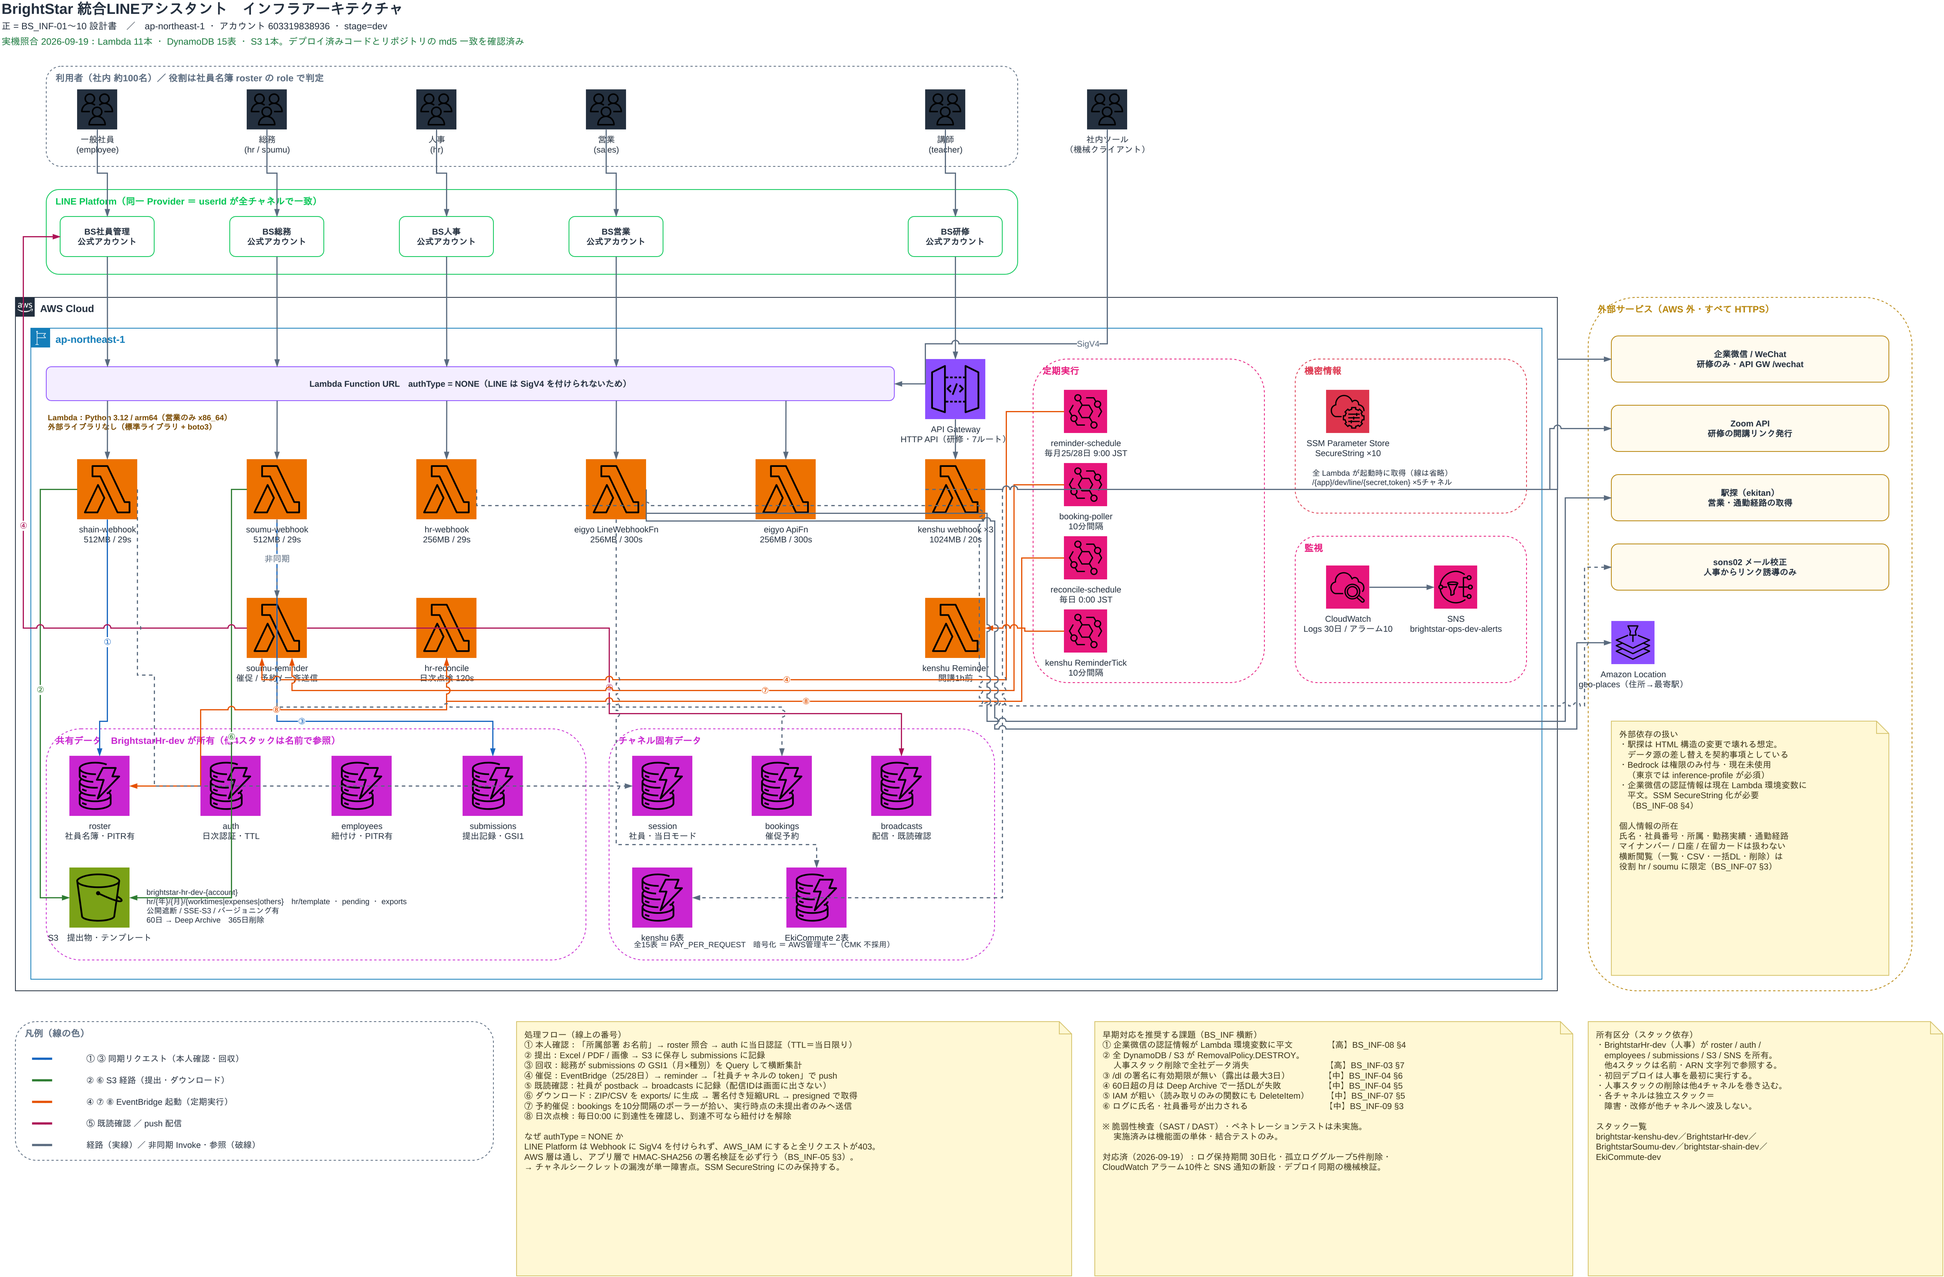
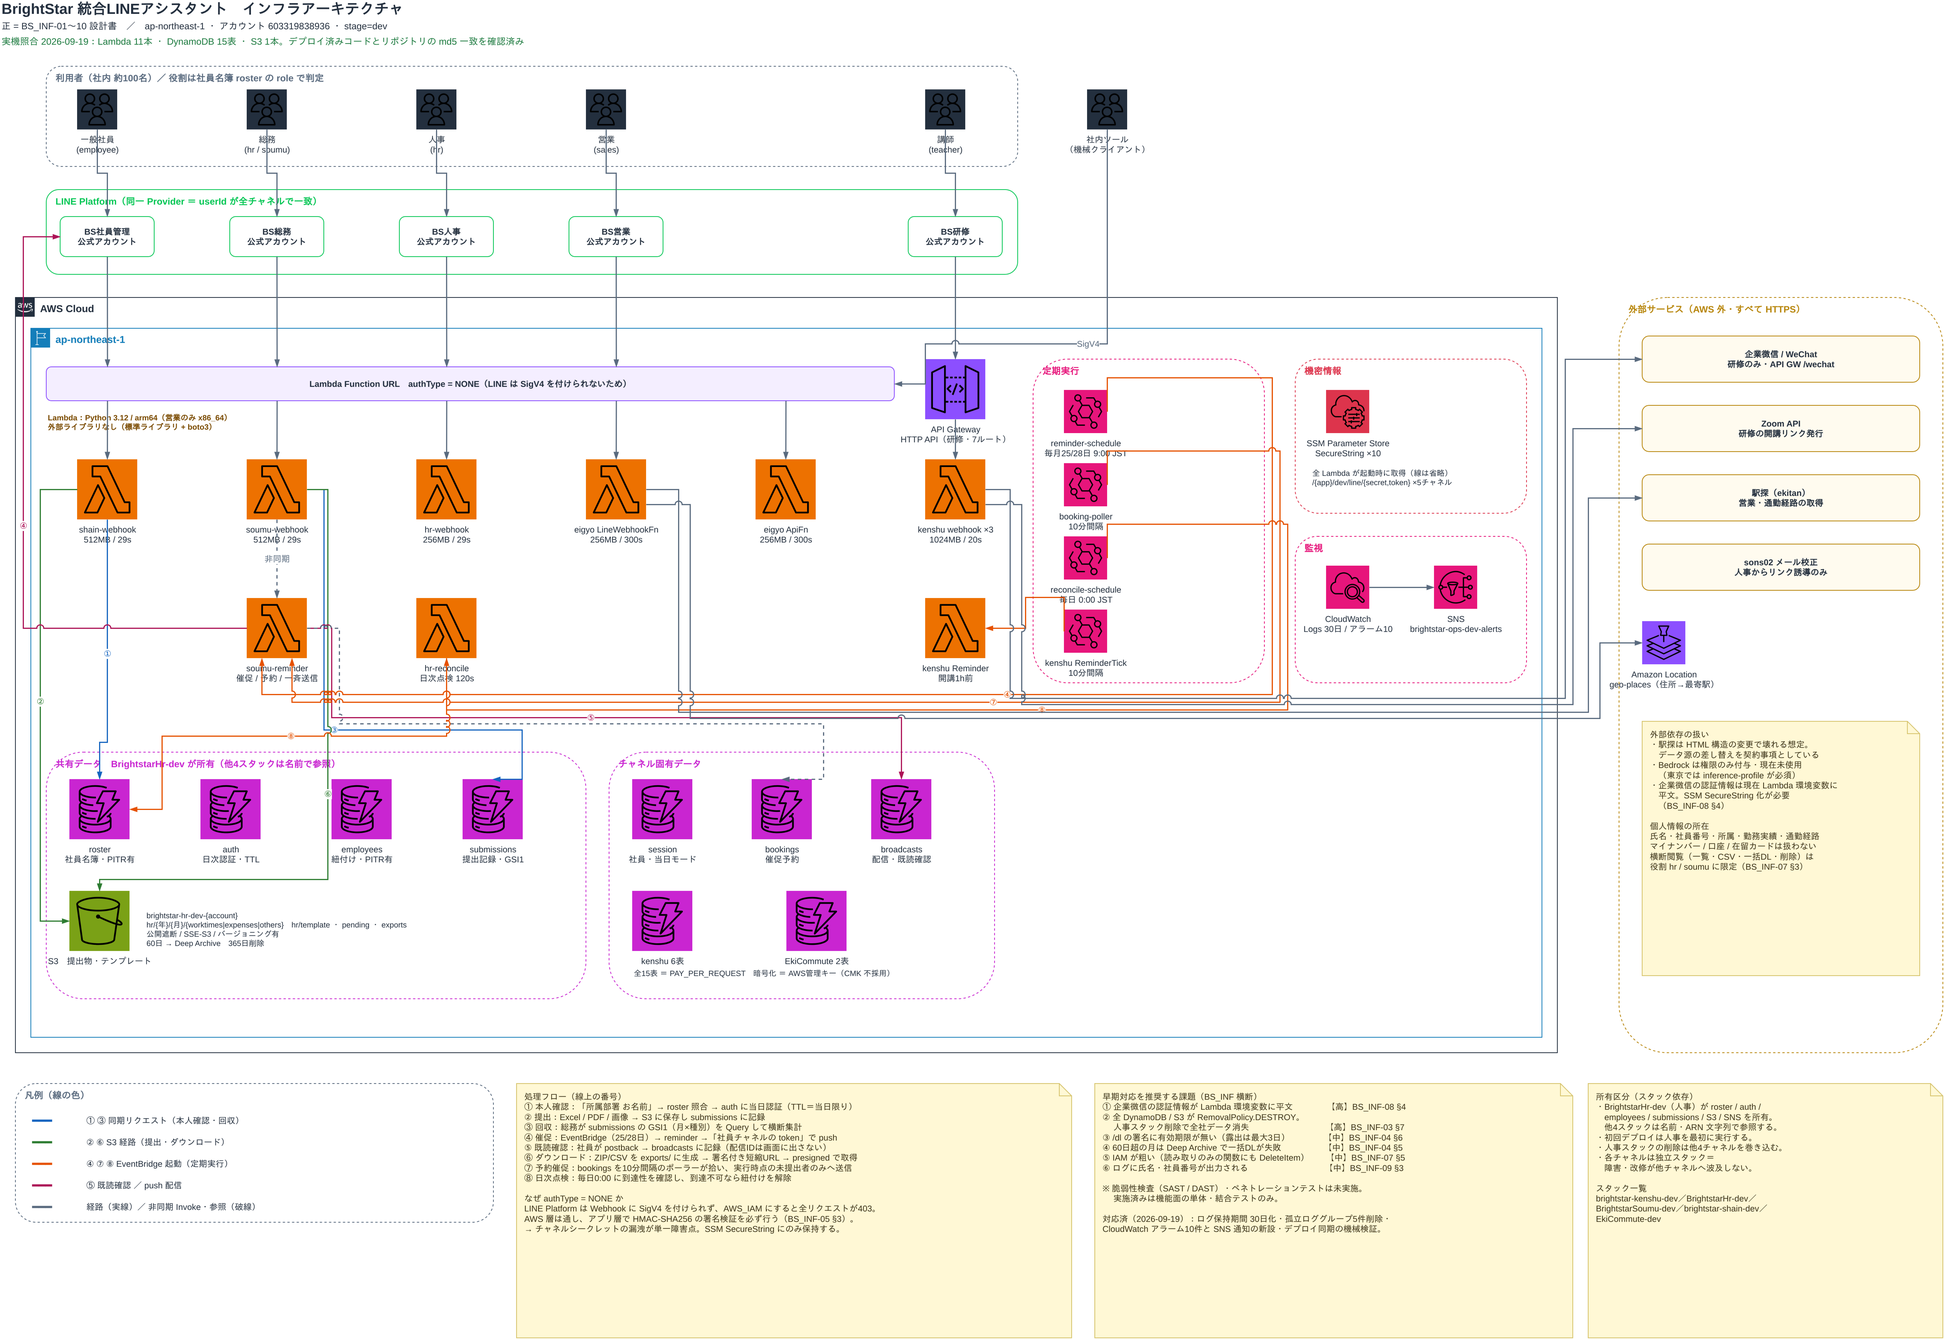
fix: masterHrPrefix（テスト用バックドア）を無効化／アーキテクチャ図の配線をアイコン非貫通に修正
バックドア無効化
- soumu/cdk/cdk.json に masterHrPrefix="sonsik" がハードコードされており、
  公開リポジトリに値が入ったまま常時有効だった。設定を削除し人事・総務を再デプロイ。
- 4関数すべて MASTER_HR_PREFIX='' を実機確認。既定＝無効。
  有効化が必要な場合のみデプロイ時に -c で渡す（値はリポジトリに置かない）。
- BS_INF-02 / 10 / 11 の記述を更新。

アーキテクチャ図
- 線が走れる帯（アイコン78px＋ラベル37pxを避けた隙間）を先に定義し、縦横の車線を割当。
  これによりアイコンを貫通する線をゼロにした。
- EventBridge は左がラベル帯なので右へ出し、枠外 1690〜1710 を降りる。
- 外部サービス枠を右へ寄せ、AWS 枠との間に配線用の通路を確保。
- SSM への線は全 Lambda が対象のため引かず注記に置き換え。

diff --git a/soumu/cdk/lib/brightstar-soumu-stack.ts b/soumu/cdk/lib/brightstar-soumu-stack.ts
@@ -97,7 +97,9 @@ export class BrightstarSoumuStack extends cdk.Stack {
       HR_USERIDS: hrUserIds,
       LINE_SECRET_PARAM: lineSecretParam,
       LINE_TOKEN_PARAM: lineTokenParam,
-      // テスト用バックドア：「sonsik+YYYYMMDD」で1時間だけ総務権限（-c masterHrPrefix=sonsik）
+      // テスト用バックドア：「<prefix>+YYYYMMDD」の送信で1時間だけ総務権限を付与する。
+      // 空文字なら無効。**本番相当の運用では値を設定しない**（既定＝無効）。
+      // 使う場合のみデプロイ時に -c masterHrPrefix=<値> を渡す（値はリポジトリに置かない）。
       MASTER_HR_PREFIX: this.node.tryGetContext("masterHrPrefix") || "",
       BEDROCK_ENABLED: "false",
       TZ: "Asia/Tokyo",

diff --git a/tools/arch_diagram.py b/tools/arch_diagram.py
@@ -183,8 +183,8 @@ for i, (nm, nid) in enumerate(ACC):
         box(COL[i] - 22, 305, 122, 52, nm + "\n公式アカウント", "#06C755", nid=nid, font=11)
 
 # ── AWS Cloud ──────────────────────────────────────────
-group(60, 410, 2000, 900, "AWS Cloud", INK, gr_icon="group_aws_cloud_alt", nid="g_aws")
-group(80, 450, 1960, 845, "ap-northeast-1", "#147EBA", gr_icon="group_region", nid="g_region")
+group(60, 410, 2000, 980, "AWS Cloud", INK, gr_icon="group_aws_cloud_alt", nid="g_aws")
+group(80, 450, 1960, 920, "ap-northeast-1", "#147EBA", gr_icon="group_region", nid="g_region")
 
 # 入口層
 box(100, 500, 1100, 44, "Lambda Function URL　authType = NONE（LINE は SigV4 を付けられないため）",
@@ -207,28 +207,28 @@ text(100, 556, 400, 32,
      10, 1, "#7A4A00")
 
 # データ層
-group(100, 970, 700, 300, "共有データ　BrightstarHr-dev が所有（他4スタックは名前で参照）",
+group(100, 1000, 700, 320, "共有データ　BrightstarHr-dev が所有（他4スタックは名前で参照）",
       C_DB, dashed=1, nid="g_shared", font=12)
 for i, (nm, nid) in enumerate([("roster\n社員名簿・PITR有", "t_roster"),
                                ("auth\n日次認証・TTL", "t_auth"),
                                ("employees\n紐付け・PITR有", "t_emp"),
                                ("submissions\n提出記録・GSI1", "t_sub")]):
-    icon(130 + i * 170, 1005, nm, "dynamodb", C_DB, nid=nid)
-icon(130, 1150, "S3　提出物・テンプレート", "s3", C_STORAGE, nid="s3")
-text(228, 1152, 540, 96,
+    icon(130 + i * 170, 1035, nm, "dynamodb", C_DB, nid=nid)
+icon(130, 1180, "S3　提出物・テンプレート", "s3", C_STORAGE, nid="s3")
+text(228, 1182, 540, 96,
      "brightstar-hr-dev-{account}\n"
      "hr/{年}/{月}/{worktimes|expenses|others}　hr/template ・ pending ・ exports\n"
      "公開遮断 / SSE-S3 / バージョニング有\n"
      "60日 → Deep Archive　365日削除", 10)
 
-group(830, 970, 500, 300, "チャネル固有データ", C_DB, dashed=1, nid="g_own", font=12)
+group(830, 1000, 500, 320, "チャネル固有データ", C_DB, dashed=1, nid="g_own", font=12)
 for i, (nm, nid) in enumerate([("session\n社員・当日モード", "t_sess"),
                                ("bookings\n催促予約", "t_book"),
                                ("broadcasts\n配信・既読確認", "t_bc")]):
-    icon(860 + i * 155, 1005, nm, "dynamodb", C_DB, nid=nid)
-icon(860, 1150, "kenshu 6表", "dynamodb", C_DB, nid="t_kenshu")
-icon(1060, 1150, "EkiCommute 2表", "dynamodb", C_DB, nid="t_eki")
-text(860, 1235, 460, 30,
+    icon(860 + i * 155, 1035, nm, "dynamodb", C_DB, nid=nid)
+icon(860, 1180, "kenshu 6表", "dynamodb", C_DB, nid="t_kenshu")
+icon(1060, 1180, "EkiCommute 2表", "dynamodb", C_DB, nid="t_eki")
+text(860, 1272, 460, 30,
      "全15表 ＝ PAY_PER_REQUEST　暗号化 ＝ AWS管理キー（CMK 不採用）", 10)
 
 # 右カラム：定期実行 / 機密 / 監視
@@ -251,18 +251,18 @@ icon(1760, 758, "CloudWatch\nLogs 30日 / アラーム10", "cloudwatch_2", C_MGM
 icon(1900, 758, "SNS\nbrightstar-ops-dev-alerts", "sns", C_APPINT, nid="sns", size=56)
 
 # ── 外部サービス（AWS 外） ────────────────────────────
-group(2100, 410, 420, 900, "外部サービス（AWS 外・すべて HTTPS）", "#B8860B", dashed=1,
+group(2140, 410, 420, 980, "外部サービス（AWS 外・すべて HTTPS）", "#B8860B", dashed=1,
       nid="g_ext", font=12)
 EXT = [("企業微信 / WeChat\n研修のみ・API GW /wechat", "x_wecom"),
        ("Zoom API\n研修の開講リンク発行", "x_zoom"),
        ("駅探（ekitan）\n営業・通勤経路の取得", "x_eki"),
        ("sons02 メール校正\n人事からリンク誘導のみ", "x_mail")]
 for i, (nm, nid) in enumerate(EXT):
-    box(2130, 460 + i * 90, 360, 60, nm, "#B8860B", nid=nid, fill="#FFFBEF", font=11)
-icon(2130, 830, "Amazon Location\ngeo-places（住所→最寄駅）", "location_service", C_NET,
+    box(2170, 460 + i * 90, 360, 60, nm, "#B8860B", nid=nid, fill="#FFFBEF", font=11)
+icon(2170, 830, "Amazon Location\ngeo-places（住所→最寄駅）", "location_service", C_NET,
      nid="x_loc", size=56)
 
-note(2130, 960, 360, 330,
+note(2170, 960, 360, 330,
      "外部依存の扱い\n"
      "・駅探は HTML 構造の変更で壊れる想定。\n"
      "　データ源の差し替えを契約事項としている\n"
@@ -306,74 +306,84 @@ edge("u_tool", "ep_furl", "SigV4", GRAY,
      exit_=("0.5", "1"), entry=("1", "0.5"),
      points=[(1476, 470), (1240, 470), (1240, 522)])
 
+# ── 配線の車線割り当て ───────────────────────────────────────────
+#   アイコン本体を一切貫通させないため、線が通れる帯を先に決めて割り当てる。
+#   アイコンは 78px 角、その下 37px がラベル帯。よって使える帯は
+#     Lambda 1段目の下  y=740〜795（EventBridge アイコンの隙間 732〜771 と重なる部分を使う）
+#     Lambda 2段目の下  y=920〜995（データ層の上端 1000 まで）
+#     データ表の下      y=1155〜1175
+#   縦の通路は列と列の隙間だけを使う：
+#     70 / 92（AWS 枠の左外）、250 / 465（データ表の隙間 208〜300・378〜470）
+#     460 / 470 / 480（Lambda 列 438〜580 の隙間）
+#     920 / 935（営業列の右 878〜1020）、1350 / 1365（研修ラベルの右〜定期実行枠の左）
+#     1390 / 1400 / 1410（定期実行枠の内側・アイコン 1420 の左）
+#     2070 / 2080 / 2100 / 2115（AWS 枠 2060 と外部枠 2140 の間）
+
 # ① 本人確認：shain → roster
 edge("l_shain", "t_roster", "①", BLUE, exit_=("0.5", "1"), entry=("0.5", "0"),
-     points=[(CX[0], 960), (169, 960)])
-# ② 提出：shain → S3（左の外側を通してアイコンを避ける）
+     points=[(CX[0], 987), (169, 987)])
+# ② 提出：shain → S3（AWS 枠の左外を降りる）
 edge("l_shain", "s3", "②", GREEN, exit_=("0", "0.5"), entry=("0", "0.5"),
-     points=[(92, 659), (92, 1189)])
-# ③ 回収：soumu → submissions
-edge("l_soumu", "t_sub", "③", BLUE, exit_=("0.5", "1"), entry=("0.5", "0"),
-     points=[(CX[1], 960), (679, 960)])
-# ⑥ DL：soumu → S3
-edge("l_soumu", "s3", "⑥", GREEN, exit_=("0", "0.5"), entry=("1", "0.5"),
-     points=[(340, 659), (340, 1189)])
+     points=[(92, 659), (92, 1219)])
+# ③ 回収：soumu → submissions（真下は soumu-reminder なので右へ逃がす）
+edge("l_soumu", "t_sub", "③", BLUE, exit_=("1", "0.5"), entry=("0.5", "0"),
+     points=[(460, 659), (460, 971), (717, 971)])
+# ⑥ DL：soumu → S3（表の隙間 x=465 を降り、ラベル帯の下 y=1165 を通る）
+edge("l_soumu", "s3", "⑥", GREEN, exit_=("1", "0.5"), entry=("0.5", "0"),
+     points=[(465, 659), (465, 1165), (169, 1165)])
 # ⑤ 既読確認：reminder → broadcasts
 edge("l_rem", "t_bc", "⑤", PINK, exit_=("1", "0.5"), entry=("0.5", "0"),
-     points=[(830, 839), (830, 950), (1209, 950)])
-# ④ push は社員チャネルの token で送る（左端を大きく迂回してアイコンを避ける）
+     points=[(470, 839), (470, 955), (1209, 955)])
+# 予約の読み書き
+edge("l_rem", "t_book", "", GRAY, dashed=1, exit_=("1", "0.5"), entry=("0.5", "0"),
+     points=[(480, 839), (480, 963), (1108, 963)])
+# ④ push は社員チャネルの token で送る（AWS 枠の外を大きく回す）
 edge("l_rem", "acc_shain", "④", PINK, exit_=("0", "0.5"), entry=("0", "0.5"),
      points=[(70, 839), (70, 331)])
-# ④⑦⑧ EventBridge → Lambda
-#   縦道 x=1345/1355/1365、横車線 y=906/920/934（Lambda 下端878 とデータ層上端970 の間）
-edge("e_rem", "l_rem", "④", ORANGE, exit_=("0", "0.5"), entry=("0.25", "1"),
-     points=[(1345, 558), (1345, 906), (380, 906)])
-edge("e_poll", "l_rem", "⑦", ORANGE, exit_=("0", "0.5"), entry=("0.75", "1"),
-     points=[(1355, 653), (1355, 920), (418, 920)])
-edge("e_rec", "l_rec", "⑧", ORANGE, exit_=("0", "0.5"), entry=("0.5", "1"),
-     points=[(1365, 748), (1365, 934), (619, 934)])
-edge("e_krem", "l_krem", "", ORANGE, exit_=("0", "0.5"), entry=("1", "0.5"))
-# 非同期 Invoke
-edge("l_soumu", "l_rem", "非同期", GRAY, dashed=1, exit_=("0.5", "1"), entry=("0.5", "0"))
-# ⑧ 紐付け解除
+# ⑧ 到達不可なら紐付け解除
 edge("l_rec", "t_roster", "⑧", ORANGE, exit_=("0.5", "1"), entry=("1", "0.5"),
-     points=[(CX[2], 945), (300, 945), (300, 1044)])
-# 参照（破線）
-# SSM は全 Lambda が起動時に読むため、線は引かず 機密情報 グループ内に注記する
-edge("l_shain", "t_sess", "", GRAY, dashed=1, exit_=("1", "0.5"), entry=("0", "0.5"),
-     points=[(240, 900), (240, 1044)])
-edge("l_rem", "t_book", "", GRAY, dashed=1, exit_=("0.5", "1"), entry=("0.5", "0"))
-edge("l_kenshu", "t_kenshu", "", GRAY, dashed=1, exit_=("0", "0.5"), entry=("1", "0.5"),
-     points=[(1340, 1189)])
-edge("l_eigyo", "t_eki", "", GRAY, dashed=1, exit_=("0.5", "1"), entry=("0.5", "0"),
-     points=[(CX[3], 1120), (1099, 1120)])
+     points=[(619, 979), (250, 979), (250, 1074)])
+# ④⑦⑧ EventBridge → Lambda（定期実行枠の内側を降り、2段目の下の車線で戻る）
+# アイコン左はラベル帯なので、右へ出して枠の外（1690〜1710）を降りる
+edge("e_rem", "l_rem", "④", ORANGE, exit_=("1", "0.5"), entry=("0.25", "1"),
+     points=[(1690, 514), (1690, 925), (380, 925)])
+edge("e_poll", "l_rem", "⑦", ORANGE, exit_=("1", "0.5"), entry=("0.75", "1"),
+     points=[(1700, 609), (1700, 935), (418, 935)])
+edge("e_rec", "l_rec", "⑧", ORANGE, exit_=("1", "0.5"), entry=("0.5", "1"),
+     points=[(1710, 704), (1710, 945), (619, 945)])
+edge("e_krem", "l_krem", "", ORANGE, exit_=("0", "0.5"), entry=("1", "0.5"),
+     points=[(1370, 799), (1370, 839)])
+# 非同期 Invoke（soumu-webhook の真下が soumu-reminder）
+edge("l_soumu", "l_rem", "非同期", GRAY, dashed=1, exit_=("0.5", "1"), entry=("0.5", "0"))
+# 監視
 edge("cw", "sns", "", GRAY, exit_=("1", "0.5"), entry=("0", "0.5"))
-# 外部サービス
+# 外部サービス（2段目の下の車線 → AWS 枠と外部枠の間の通路を上がる）
 edge("l_kenshu", "x_wecom", "", GRAY, exit_=("1", "0.5"), entry=("0", "0.5"),
-     points=[(2060, 659), (2060, 490)])
-edge("l_kenshu", "x_zoom", "", GRAY, exit_=("1", "0.5"), entry=("0", "0.5"),
-     points=[(2050, 659), (2050, 580)])
+     points=[(1350, 659), (1350, 930), (2070, 930), (2070, 490)])
+edge("l_kenshu", "x_zoom", "", GRAY, exit_=("1", "0.75"), entry=("0", "0.5"),
+     points=[(1365, 678), (1365, 938), (2080, 938), (2080, 580)])
 edge("l_eigyo", "x_eki", "", GRAY, exit_=("1", "0.5"), entry=("0", "0.5"),
-     points=[(1320, 690), (1320, 960), (2070, 960), (2070, 670)])
-edge("l_eigyo", "x_loc", "", GRAY, exit_=("1", "0.5"), entry=("0", "0.5"),
-     points=[(1330, 700), (1330, 970), (2085, 970), (2085, 858)])
-edge("l_hr", "x_mail", "", GRAY, dashed=1, exit_=("1", "0.5"), entry=("0", "0.5"),
-     points=[(1310, 680), (1310, 940), (2095, 940), (2095, 760)])
+     points=[(920, 659), (920, 948), (2100, 948), (2100, 670)])
+edge("l_eigyo", "x_loc", "", GRAY, exit_=("1", "0.75"), entry=("0", "0.5"),
+     points=[(935, 678), (935, 956), (2115, 956), (2115, 858)])
+# 以下は線を引かず、グループの所属で表す（線を増やすと可読性が落ちるため）：
+#   全 Lambda → SSM（起動時に取得）、shain → session、kenshu → kenshu6表、
+#   eigyo → EkiCommute2表、人事 → メール校正（リンク誘導のみで通信しない）
 
 # ══════════════════════════════════════════════════════════════════
 # 凡例・注記
 # ══════════════════════════════════════════════════════════════════
-group(60, 1350, 620, 180, "凡例（線の色）", "#5A6B7F", dashed=1, font=12)
+group(60, 1430, 620, 180, "凡例（線の色）", "#5A6B7F", dashed=1, font=12)
 LEG = [(BLUE, "① ③ 同期リクエスト（本人確認・回収）"),
        (GREEN, "② ⑥ S3 経路（提出・ダウンロード）"),
        (ORANGE, "④ ⑦ ⑧ EventBridge 起動（定期実行）"),
        (PINK, "⑤ 既読確認 ／ push 配信"),
        (GRAY, "経路（実線）／ 非同期 Invoke・参照（破線）")]
 for i, (c, s) in enumerate(LEG):
-    text(80, 1388 + i * 28, 60, 20, "━━━", 14, 1, c)
-    text(150, 1388 + i * 28, 520, 20, s, 11)
+    text(80, 1468 + i * 28, 60, 20, "━━━", 14, 1, c)
+    text(150, 1468 + i * 28, 520, 20, s, 11)
 
-note(710, 1350, 720, 330,
+note(710, 1430, 720, 330,
      "処理フロー（線上の番号）\n"
      "① 本人確認：「所属部署 お名前」→ roster 照合 → auth に当日認証（TTL＝当日限り）\n"
      "② 提出：Excel / PDF / 画像 → S3 に保存し submissions に記録\n"
@@ -388,7 +398,7 @@ note(710, 1350, 720, 330,
      "AWS 層は通し、アプリ層で HMAC-SHA256 の署名検証を必ず行う（BS_INF-05 §3）。\n"
      "→ チャネルシークレットの漏洩が単一障害点。SSM SecureString にのみ保持する。")
 
-note(1460, 1350, 620, 330,
+note(1460, 1430, 620, 330,
      "早期対応を推奨する課題（BS_INF 横断）\n"
      "① 企業微信の認証情報が Lambda 環境変数に平文　　　　【高】BS_INF-08 §4\n"
      "② 全 DynamoDB / S3 が RemovalPolicy.DESTROY。\n"
@@ -402,7 +412,7 @@ note(1460, 1350, 620, 330,
      "対応済（2026-09-19）：ログ保持期間 30日化・孤立ロググループ5件削除・\n"
      "CloudWatch アラーム10件と SNS 通知の新設・デプロイ同期の機械検証。")
 
-note(2100, 1350, 460, 330,
+note(2100, 1430, 460, 330,
      "所有区分（スタック依存）\n"
      "・BrightstarHr-dev（人事）が roster / auth /\n"
      "　employees / submissions / S3 / SNS を所有。\n"
@@ -421,7 +431,7 @@ xml = ('<mxfile host="app.diagrams.net" agent="brightstar-tools">'
        '<diagram name="BrightStar インフラ" id="bs-infra">'
        '<mxGraphModel dx="1400" dy="900" grid="1" gridSize="10" guides="1" tooltips="1" '
        'connect="1" arrows="1" fold="1" page="1" pageScale="1" pageWidth="2600" '
-       'pageHeight="1700" math="0" shadow="0"><root>'
+       'pageHeight="1830" math="0" shadow="0"><root>'
        '<mxCell id="0"/><mxCell id="1" parent="0"/>'
        + "".join(cells) +
        "</root></mxGraphModel></diagram></mxfile>")

diff --git a/docs/design/BS_INF-11_アカウント移行手順書.md b/docs/design/BS_INF-11_アカウント移行手順書.md
@@ -242,12 +242,22 @@ $KCTX.Count / 2
 
 ### 3-6. masterHrPrefix の扱いを決める
 
-`masterHrPrefix` は `prefix + YYYYMMDD` を送ると人事権限が付与されるテスト用バックドアである。会社アカウントでは無効化を推奨する。
+`masterHrPrefix` は `prefix + YYYYMMDD` を送ると人事/総務権限が付与されるテスト用バックドアである。
+**2026-09-19 に移行元で無効化済**（context を渡さない＝空文字＝無効）。移行先でも渡さないこと。
 
 | 方針 | デプロイ時の指定 |
 |---|---|
-| 無効化（推奨） | `-c masterHrPrefix` を渡さない |
-| 継続利用 | `-c masterHrPrefix=<新しい文字列>`（移行元と同じ値は使わない） |
+| 無効化（既定・推奨） | 何も渡さない |
+| 継続利用 | `-c masterHrPrefix=<新しい文字列>`。値はリポジトリに置かない |
+
+```powershell
+foreach ($f in @("brightstar-hr-dev-webhook","brightstar-hr-dev-reconcile","brightstar-soumu-dev-webhook","brightstar-soumu-dev-reminder")) {
+  $v = aws lambda get-function-configuration --function-name $f --profile bs-new --region ap-northeast-1 --query "Environment.Variables.MASTER_HR_PREFIX" --output text
+  "{0,-34} = '{1}'" -f $f, $v
+}
+```
+
+すべて空であること。
 
 ---
 
